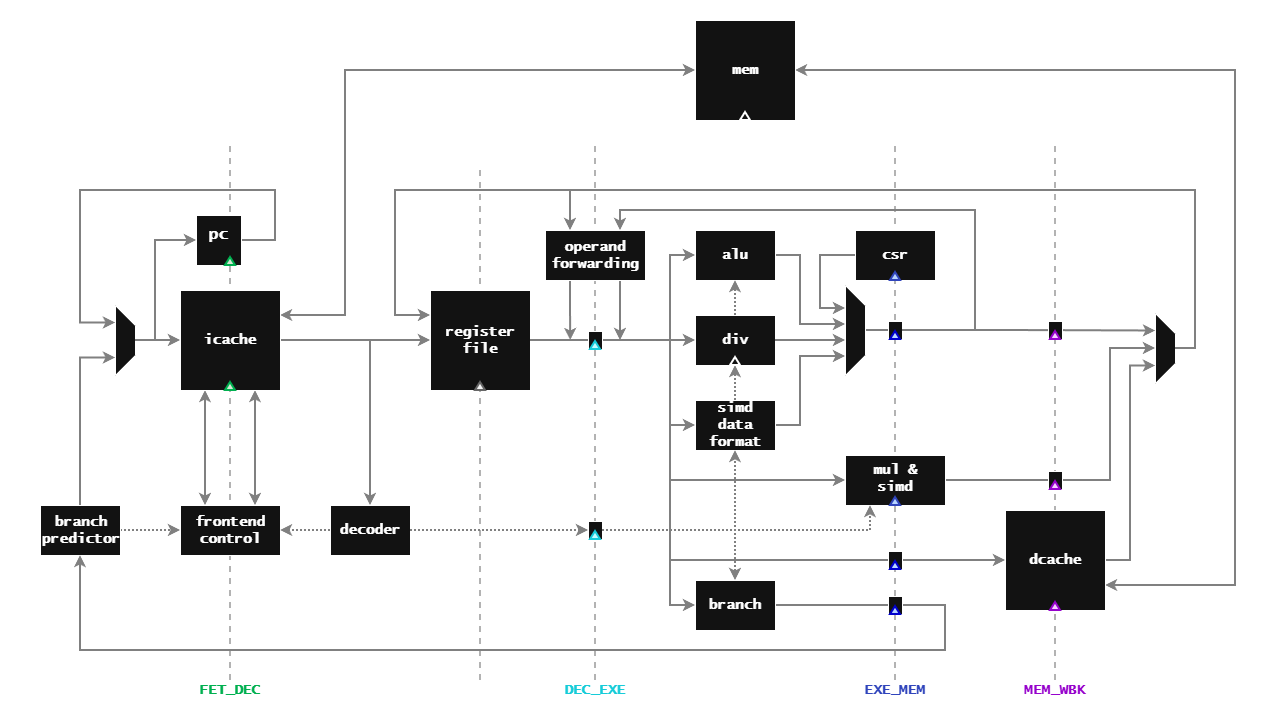
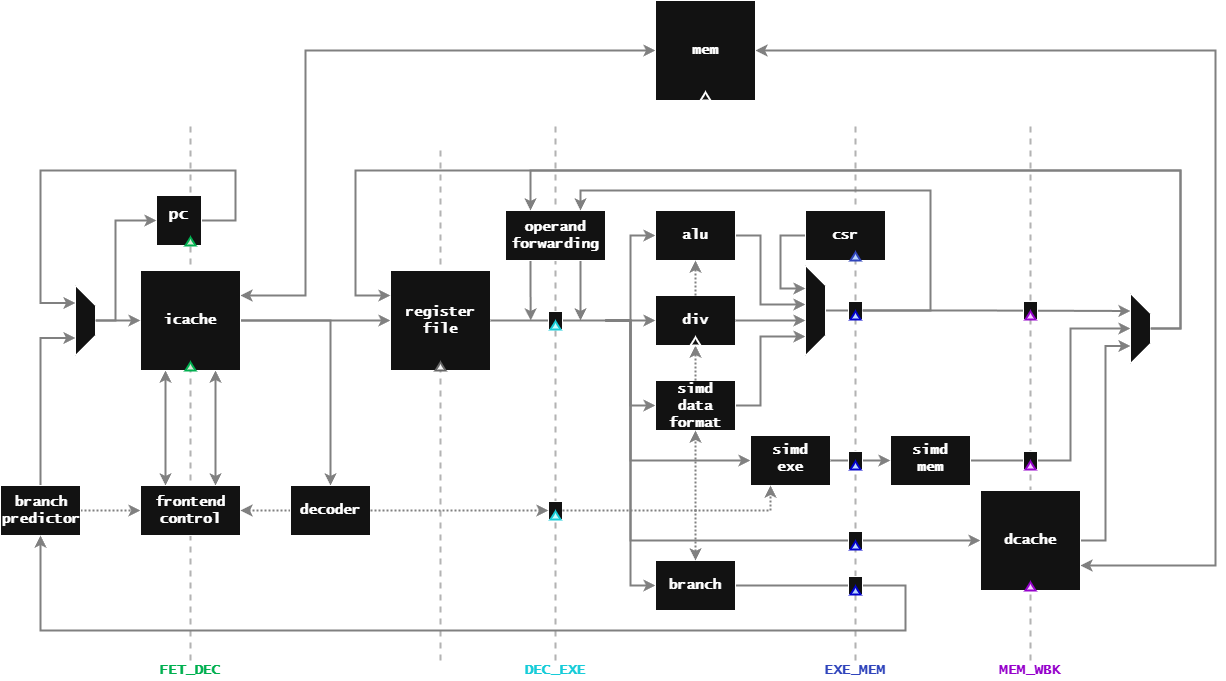
docs(readme): add fpga synt notes; add data_fmt uarch info and minor uarch updates; add konata log from dhrystone main loop exec

Changed region(s): [[0.0, 0.0, 0.9918, 1.0], [0.8059, 0.9251, 0.8679, 1.0]]

diff --git a/README.md b/README.md
@@ -10,10 +10,11 @@ SystemVerilog implementation of RISC-V RV32IM & custom packed SIMD ISA as a 5-st
   - [High-level description](#high-level-description)
     - [Icache](#icache)
     - [Branch predictor](#branch-predictor)
-    - [Dcache](#dcache)
     - [Register File](#register-file)
     - [RV32 integer multiplier \& SIMD unit](#rv32-integer-multiplier--simd-unit)
+    - [SIMD data formatting unit and segmeted shifter](#simd-data-formatting-unit-and-segmeted-shifter)
     - [RV32 restoring binary divider](#rv32-restoring-binary-divider)
+    - [Dcache](#dcache)
     - [Main memory](#main-memory)
     - [Hierarchy](#hierarchy)
 - [Measured Performance - FPGA emulation](#measured-performance---fpga-emulation)
@@ -21,13 +22,14 @@ SystemVerilog implementation of RISC-V RV32IM & custom packed SIMD ISA as a 5-st
 - [Verification](#verification)
   - [Environment](#environment)
 - [FPGA emulation](#fpga-emulation)
+  - [Synthesis flow](#synthesis-flow)
 - [Analysis example use-case: Dhrystone](#analysis-example-use-case-dhrystone)
   - [Execution log](#execution-log)
   - [Callstack](#callstack)
   - [Profiled instructions](#profiled-instructions)
   - [Execution trace](#execution-trace)
   - [Hardware stats](#hardware-stats)
-  - [Kanata log](#kanata-log)
+  - [Konata](#konata)
   - [Analysis scripts](#analysis-scripts)
     - [Flat profile](#flat-profile)
     - [TDA](#tda)
@@ -149,13 +151,16 @@ Core microarchitecture follows a fairly standard 5-stage single issue RISC-style
   - Instruction retires, optionally writes to RF.
   - Performance events about this cycle are collected.
 
-Default parameters are set in `src/ama_riscv_defines.svh` and `src/ama_riscv_types.svh`  
+Default parameters are primarily set in `src/ama_riscv_defines.svh` and `src/ama_riscv_types.svh`, with a few others set in the sources.f files, or directly set from command line, like during synthesis.  
+
+SIMD ISA can be completely disabled by setting `--define CPU_SIMD_EN=0`.  
+Multiplier (RV32 M-extension) can still use the same BW tree with `--define CPU_MULT_USE_BW=1`, or plain 16x16 partial products multiplier with `--define CPU_MULT_USE_BW=0`.  
 
 ### Icache
-- 4KB, 32-set, 2-way, 64B lines, 128-bit bus, LRU replacement policy
+- 4KB, 32-set, 2-way, 64B lines, 128-bit bus, LRU replacement
 - Parametrizable for number of sets and ways, with one bank per way
 - 1 clock cycle on hit, 7 on miss
-- Speculative misses are immediately aborted on a branch miss (upon resolution)
+- Speculative misses are immediately aborted on a branch miss
 - Configuration driven by sweeps via [hw_model_sweep.py](sim/script/hw_model_sweep.py) and [cache config](sim/script/hw_model_sweep_params_caches.json); results are under [examples/hw_sweeps](examples/hw_sweeps)
 
 ### Branch predictor
@@ -166,12 +171,6 @@ Follows the combined predictor from [McFarling's "Combining Branch Predictors"](
 - Chosen through sweeps + config constraints: due to timing considerations, no PHT is bigger than 2^8 entries, i.e. no more than 8 bits are used for indexing
 - Configuration driven by sweeps via [hw_model_sweep.py](sim/script/hw_model_sweep.py) and [bp config](sim/script/hw_model_sweep_params_bp_guided_focused.json) (see [sim sweeps](sim/README.md#hardware-model-sweeps)); results are under [examples/hw_sweeps](examples/hw_sweeps)
 
-### Dcache
-- 4KB, 16-set, 4-way, 64B lines, 128-bit bus, LRU replacement policy with writeback
-- Parametrizable for number of sets and ways, with one bank per way
-- 1 clock cycle on hit, 7 on miss, 10 on miss with writeback; 1 cycle penalty on load to use
-- Configuration driven by sweeps, same flow and config as Icache (results are under [examples/hw_sweeps](examples/hw_sweeps))
-
 ### Register File
 3R2W design, banked by default
 - Address of a 2nd write port is `rd_addr + 1`
@@ -179,19 +178,30 @@ Follows the combined predictor from [McFarling's "Combining Branch Predictors"](
 - Optionally banked as odd/even such that rd and rdp paired writes always land in a different bank
 
 ### RV32 integer multiplier & SIMD unit
-2-cycle pipelined unit (EXE -> MEM), shared across rv32 `mul*` and packed SIMD arithmetic instructions
+2-cycle pipelined unit (EXE + MEM), shared across rv32 `mul*` and packed SIMD arithmetic instructions
 - Single 32x32 Baugh-Wooley partial product array reduced through a CSA tree, reused across all element widths via diagonal lane masks: the full products are computed once, and the narrower (or accumulated) results are picked at the output mux
 - First stage builds and reduces the partial products, second stage finishes reduction and does the final add and result select
 - For `dot*` instructions, `rs3` is passed or forwarded as `late_c` in SIMD unit second stage, so back-to-back `dot`s to the same accumulator don't cause stalls
 
+### SIMD data formatting unit and segmeted shifter
+Single cycle unit, mostly made up of wiring and muxes for moving vector elements around.  
+Segmented reversible shifter is primarily used for shift (`slli*`/`srli*`/`srai*`) instructions. The reversible shifter also doubles as a second stage for the `widen*` class of instructions for the first word, while a second left-only segmented shifter is used for the second word.  
+
 ### RV32 restoring binary divider
 32-bit restoring binary divider with clz-based normalization and a one-entry result cache
-- Common case: `3 + (cnt_b - cnt_a + 1)` (cnt_a=clz(|dividend|), cnt_b=clz(|divisor|)) - 1 cycle start, 1 cycle setup, 1 cycle per dividend bit offset for the number of cnt_b bits, 1 cycle fixup
-- Special case: `2` - 1 cycle start and 1 cycle setup
-- Cache hit: `1` - combinational hit + flop the output
+- Common case: 3 + (cnt_b - cnt_a + 1) (`cnt_a=clz(|dividend|)`, `cnt_b=clz(|divisor|)`) - 1 cycle start, 1 cycle setup, 1 cycle per dividend bit offset for the number of cnt_b bits, 1 cycle fixup
+- Special case: 2 - 1 cycle start and 1 cycle setup
+- Cache hit: 1 - combinational hit + flop the output
+
+### Dcache
+- 4KB, 16-set, 4-way, 64B lines, 128-bit bus, LRU replacement with writeback
+- Parametrizable for number of sets and ways, with one bank per way
+- 1 clock cycle on hit, 7 on miss, 10 on miss with writeback; 1 cycle penalty on load to use
+- Configuration driven by sweeps, same flow and config as Icache (results are under [examples/hw_sweeps](examples/hw_sweeps))
 
 ### Main memory
-- Caches are backed by a single main memory, parametrizable size, defaults to 128K
+- Caches are backed by a single main memory, with parametrizable size 
+  - default: 128KB, per the current [linker script](sim/sw/baremetal/common/link.ld)
 - True dual port, 128-bit bus, 16B words
 - `$readmemh` is used to load in the workload's `.mem` file
   - For verification, `ama_riscv_tb` writes the file
@@ -218,7 +228,7 @@ For FPGA emulation, `ama_riscv_top` is instantiated in the `ama_riscv_fpga` FPGA
 
 # Measured Performance - FPGA emulation
 
-Emulation is ran at 50MHz on Arty A7-100T board. Since the design is fully synchronous, change in clock frequency by X would yield the same change in speed by X, thus keeping the 'per MHz' result the same.
+Emulation is ran at 50MHz on Arty A7-100T board. Since design uses single clock domain, a change in clock frequency by X would yield the same change in speed by X, thus keeping the 'per MHz' result the same.
 
 - Dhrystone: 81 DMIPS, 1.63 DMIPS/MHz (IPC: 0.91)
 - Coremark: 145 Coremarks, 2.9 Coremarks/MHz (IPC: 0.89)
@@ -323,6 +333,36 @@ First three logic levels, with percentage contribution compared to part's total 
 ```
 
 Detailed utilization reports are available under [examples/perf_runs_fpga/fpga_synt_reports](examples/perf_runs_fpga/fpga_synt_reports)
+
+## Synthesis flow
+
+FPGA synthesis and implementation flow uses Vivado in batch mode, with `fpga/synt.tcl` for the underlying recipe, and `fpga/run_synt.py` as the multi-run driver. The `run_synt.py` driver is the entry point, and the only mandatory argument is the .yaml config file, e.g.
+
+```sh
+mkdir workdir_synt && cd workdir_synt # useful to work in a separate, gitignored, area
+../fpga/run_synt.py --config ../fpga/configs/simd.yaml
+```
+
+Which will kick off the run, with otherwise default settings:  
+```
+launching 1 run(s), up to 4 parallel (auto threads each):
+    simd_50_flat_rebuilt -> /home/alek/dev/ama-riscv/workdir_synt/synt_simd_50_flat_rebuilt
+```
+
+The yaml config is set up such that there's provided baseline at `fpga/configs/_base.yaml`, which each of the run configs (`simd.yaml` in the above case) first extend, and then either add new or override existing parameters. `run_synt.py` therefore first merges the two (or more, multiple `extend`s can be chained) yaml config files together, and then produces `config.resolved.yaml` under the rundir, with `params.tcl` as those same parameters prepared in tcl format for the `synt.tcl`.  After config files are ready, it kicks-off the synthesis.  
+
+Running with `--dry_run` first is useful to confirm all settings were as expected. Dry run will only print the rundir, and write `config.resolved.yaml` and `params.tcl` under the rundir (for each of the configs).  
+
+Multiple config files can be specified together, where each config would create a separate job:  
+```sh
+../fpga/run_synt.py --config ../fpga/configs/simd.yaml ../fpga/configs/simd_hier.yaml
+```
+
+When running multiple jobs in parallel, it's good to be mindful of the host resources. The synthesis phase is limited to 4 threads by Vivado (v2023) itself, while implementation can use more threads. Therefore, running multiple jobs in parallel can quickly throttle the host system. Using `-j/--jobs` will limit the number of parallel runs, e.g. running with `-j 1` will fully serialize the jobs. The default is currently set to `4` parallel jobs. It's also possible to limit the number of threads each job will use with `--threads`. This directly changes Vivado's own `general.maxThreads` parameter. The default is currently set to `0` which means it won't be set, and will instead let Vivado use its auto-detection.  
+
+Vivado [directive options file](fpga/configs/directives.options.txt) is provided as a quick reference guide for the synt/impl adjustments.  
+
+Flow will create two checkpoints along the way, as `post_synth.dcp` and `routed.dcp`, which can then be opened up for further work, either in GUI mode with `vivado routed.dcp &` or in TCL mode with `vivado -mode tcl` and then `open_checkpoint routed.dcp` in Vivado's TCL shell.  
 
 # Analysis example use-case: Dhrystone
 > [!NOTE]
@@ -528,10 +568,14 @@ This replaces HW models present in the ISA sim
 }
 ```
 
-## Kanata log
-Konata tool is used to visualize the pipeline and instruction execution. Kanata log is available as `<test_tag>.kanata.log`
+## Konata
+[Konata](https://github.com/shioyadan/Konata) is used to visualize the pipeline and instruction execution. When recorded during execution (with `-testplusarg enable_konata`), kanata log is available as `<test_tag>.kanata.log` under test's `*_out_cosim/` directory
 
-![](examples/dhrystone_dhrystone_out_cosim/konata.png)
+Bootup sequence  
+![](examples/dhrystone_dhrystone_out_cosim/konata_bootup.png)
+
+Beginning of main loop execution  
+![](examples/dhrystone_dhrystone_out_cosim/konata_loop_start.png)
 
 ## Analysis scripts
 Collection of custom and open source tools are provided for profiling, analysis, and visualization